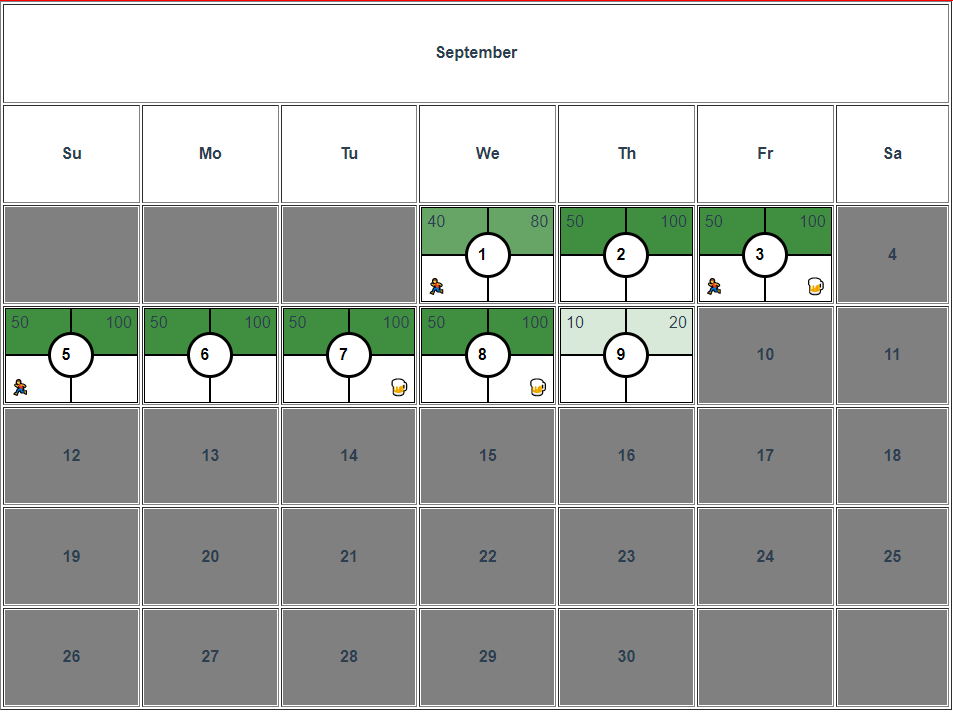
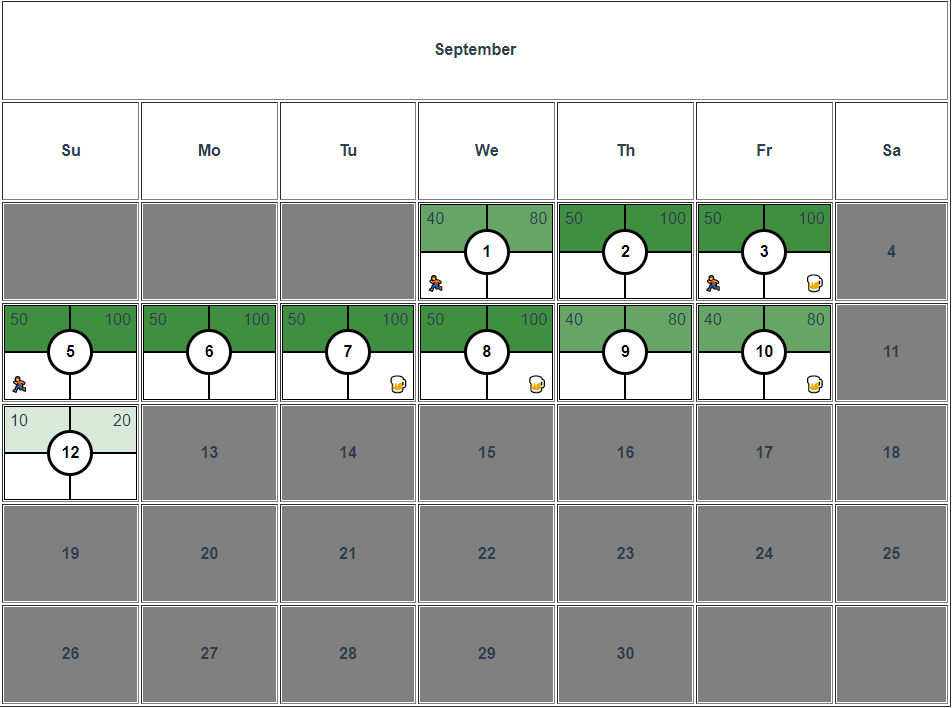
Fixed date centering on CalendarView

diff --git a/utils/apicalls.ts b/utils/apicalls.ts
@@ -20,7 +20,7 @@ export default {
         }
       });
     } catch (err) {
-      throw new Error(err);
+      throw new Error(err as string);
     }
   },
 
@@ -39,7 +39,7 @@ export default {
         console.log(data.data.data.updateData);
       });
     } catch (err) {
-      throw new Error(err);
+      throw new Error(err as string);
     }
   },
 
@@ -60,6 +60,8 @@ export default {
             }`,
       },
     }).then((data) => {
+      // chain .then to check for each data object. Maybe if axios has a way to make this cleaner?
+      console.log(data) 
       const allInfo = data.data.data.allInfo
       return allInfo
     });

diff --git a/src/components/CalendarDay.vue b/src/components/CalendarDay.vue
@@ -174,11 +174,11 @@ export default defineComponent({
   border: 3px solid #000;
   color: #000;
   text-align: center;
-  display: flex;
 }
 .untracked {
   background-color: gray;
   height: 100%;
+  width: 100%;
   display: flex;
   align-items: center;
   justify-content: center;
